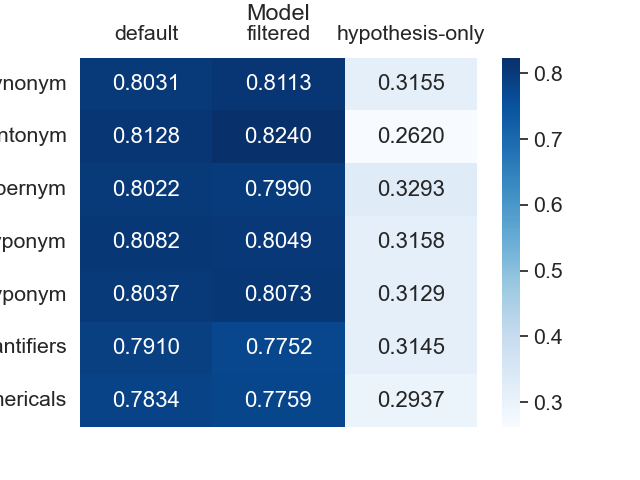
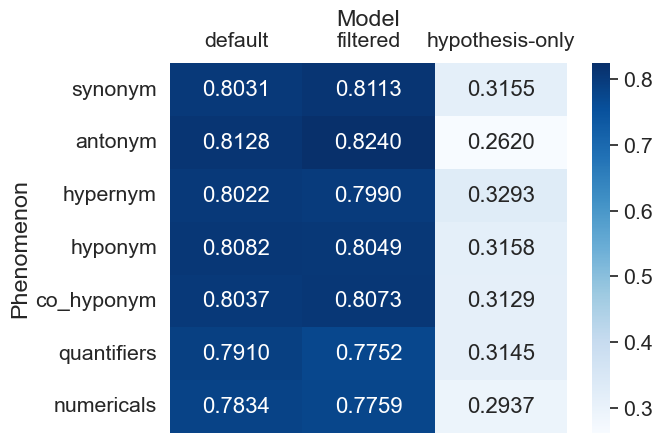
Add some text and fix images

diff --git a/report/content/04_results.tex b/report/content/04_results.tex
@@ -11,7 +11,21 @@ To analyze the performance of the \acp{LM}, we test their predictive performance
 To measure the predictive performance, we provide the macro $\text{F}_1$-score \cite{macrof1} and \ac{MCC} \cite{mcc}, as \ac{MCC} has proven to be more reliable than accuracy and $\text{F}_1$ \cite{mccGood}.
 
 % Bias
+\paragraph{Bias detection}
 To analyze biases, we compare the words deemed important by the \ac{e-SNLI} explanations to the tokens deemed important for the model prediction by interpretability methods. Furthermore, to detect linguistic biases, we conduct a confusion analysis for each specific linguistic phenomenon.
+
+\begin{figure}[ht]
+    \centering
+    \includegraphics[width=0.9\columnwidth]{./images/metric_heatmaps_phenomena/important_words/matthews_correlation.png}
+    \caption{Matthews Correlation Coefficients for the model trained on different datasets on linguistic phenomena}
+    \label{fig:metric-heatmap-phenomena-mcc}
+\end{figure}
+
+Figure~\ref{fig:metric-heatmap-phenomena-mcc} depicts the Matthews Correlation Coefficients for our model trained on different datasets on different linguistic phenomena: \enquote{default} is the model trained on the regular \ac{MultiNLI} dataset, \enquote{filtered} trained on samples which where correctly classified of maximum two hypothsis only models and \enquote{hypothesis-only} is the model trained only on the hypotheses of \ac{MultiNLI}.
+
+I can be seen that the default model performs best on samples which contain antonyms. The hypothesis-only model performes poorly as expected but also comparably well on antonyms which indicates a bias in these samples. This is confirmed by the better performance of the filtered model on antonyms.
+
+The hypothesis-only model also performes slightly better on samples which contain quantifiers which indicates a bias also in these samples. The filtered model performes slightly worse on quantifiers than the default model. This behavior is probably caused by a lack of training samples as many of them where filtered out for being biased.
 
 % Ferret
 To generate explanations we use the interpretability methods Integrated Gradients \cite{integratedgradients}, \ac{LIME} \cite{lime} and Partition SHAP Values \cite{shap}. We use the plausibility and faithfulness \cite{ferret} metrics to judge the model bias.
